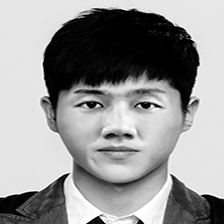
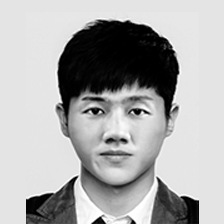
update member photo

diff --git a/components/OurTeam.tsx b/components/OurTeam.tsx
@@ -92,7 +92,7 @@ const OurTeam = () => {
                   <img
                     width="400"
                     height="400"
-                    src="/static/images/JoanLau.jpg"
+                    src="/static/images/JoanLau.png"
                     className="img-responsive wp-post-image"
                     alt="3"
                   />
